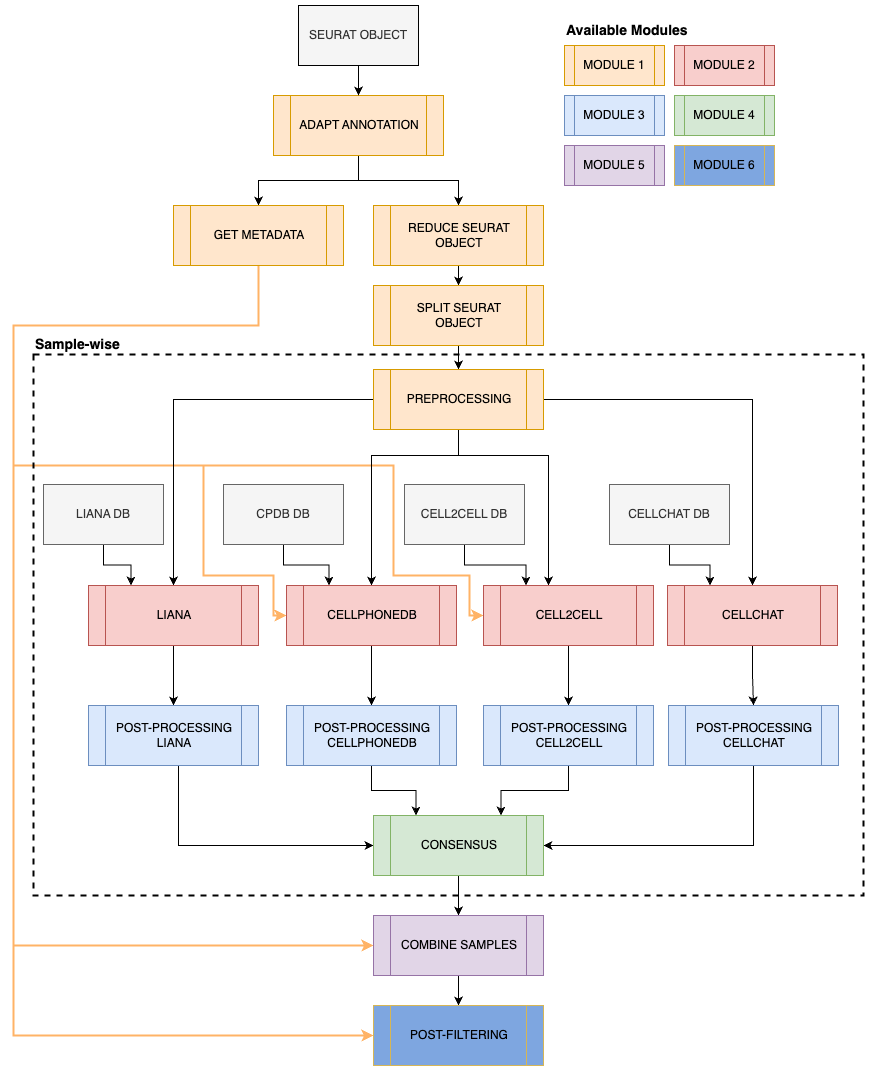
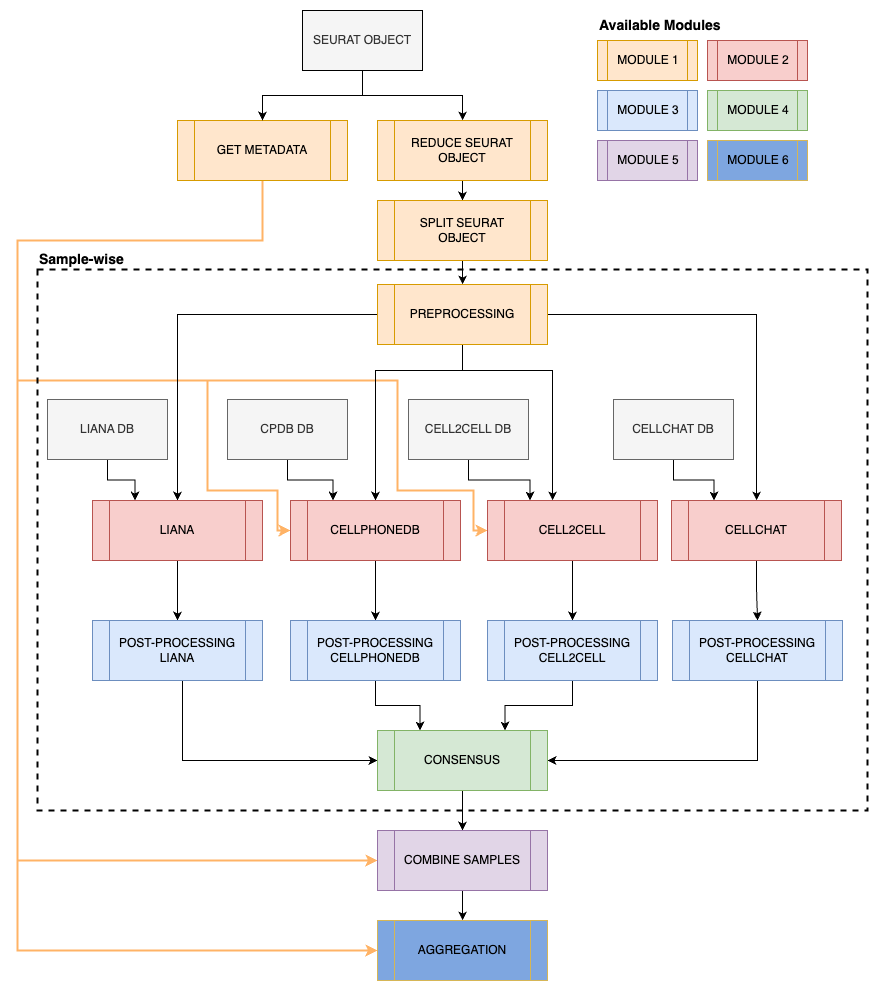
update readme + setup repo for run

diff --git a/README.md b/README.md
@@ -2,54 +2,21 @@
 
 Modular pipeline for inferring cell-cell interactions (CCIs) from scRNAseq data using multiple publicly available tools. The following tools are currently implemented: 
 
-- LIANA (0.1.12)
-- CellPhoneDB v5 (5.0.0)
-- Cell2cell (0.7.3)
-- CellChat v2 (2.1.1)
+* LIANA (0.1.12)
+* CellPhoneDB v5 (5.0.0)
+* Cell2cell (0.7.3)
+* CellChat v2 (2.1.1)
 
 ## Quick start
 
 1. Fork this repo (then clone)
 2. Installing [Nextflow](https://github.com/nextflow-io/nextflow/releases/download/v23.04.3/nextflow-23.04.3-all), used version for testing: 23.04.3
-3. Setup required conda environments with `setup_env.sh`
+3. Setup required conda environments with `cd env && setup_env.sh`
 4. Use `nf_template.sh` to run the pipeline.
 
 ## Workflow Schematic
 
 ![workflow](src/cci_workflow.png)
-
-## Prerequisites
-
-Two separate conda environments are used to infer the CCIs with Cell2Cell and CellPhoneDB v5.
-
-```sh
-# Cell2cell - Python/202_cci_cell2cell.py
-mamba env create --name cell2cell --file env/cell2cell.yml
-
-# CellPhoneDB - Python/203_cci_cpdb.py
-mamba env create --name cpdb --file env/cpdb.yml
-```
-
-All other scripts can be used with the following environment:
-
-```sh
-mamba env create --name cci --file env/cci.yml
-```
-
-After creating this environment, please install the following R packages manually using `devtools` (or your preferred package installer, e.g. `pak` or `pacman`):
-```R
-# Visualization
-devtools::install_github("jmw86069/colorjam")
-
-# CellChat (order is important, presto necessary because of bug w/ CellChat installation)
-devtools::install_github("immunogenomics/presto")
-devtools::install_github("jinworks/CellChat")
-
-# LIANA
-devtools::install_github("saezlab/liana")
-```
-
-Alternatively, use the `setup_env.sh` to setup all required environments with a single bash script.
 
 ## Running the Nextflow pipeline
 
@@ -72,9 +39,9 @@ nextflow run ${project_dir} -with-report -with-trace \
 
 A more elaborate command can be found in [nf_template.sh](nf_template.sh).
 
-Nextflow configuration files can be found in folder [nf-config](nf_config), with two symlinks: `metrics_and_report.config` and `process_resources.config`, these point to two files on H4H. These files do not have to be changed.
+Nextflow configuration files can be found in folder [nf-config](nf_config), with two symlinks: `metrics_and_report.config` and `process_resources.config` , these point to two files on H4H. These files do not have to be changed.
 
-> The Nextflow pipeline uses the three conda environments, and uses as path `$HOME/miniforge3/envs/{env_name}`. These are specified in [configuration_profiles](nf-config/configuration_profiles) and [process_info](nf-config/process_info). In the latter, the two environments `cpdb` and `cell2cell` are used for the processes: `INFER_CPDB` and `INFER_CELL2CELL`, respectively. If necessary, feel free to change.
+> The Nextflow pipeline uses the three conda environments, and uses as path `$HOME/miniforge3/envs/{env_name}` . These are specified in [configuration_profiles](nf-config/configuration_profiles) and [process_info](nf-config/process_info). In the latter, the two environments `cpdb` and `cell2cell` are used for the processes: `INFER_CPDB` and `INFER_CELL2CELL` , respectively. If necessary, feel free to change.
 
 ## INPUTS
 
@@ -82,29 +49,33 @@ Nextflow configuration files can be found in folder [nf-config](nf_config), with
 
 One of the following arguments has to be supplied to run the pipeline.
 
-- `input_file`, if supplied, you can start with Module 1.
-- `sample_dir`, if supplied, you can start with Module 1 or 2. For the latter, it is expected that this folder has two subfolders ('mtx' and 'seurat'). See below for further details.
+* `input_file`, if supplied, you can start with Module 1.
+* `sample_dir`, if supplied, you can start with Module 1 or 2. For the latter, it is expected that this folder has two subfolders ('mtx' and 'seurat'). See below for further details.
 
 Other optional arguments are:
 
-- `split_varname`: variable name to be used to split the Seurat object, e.g. variable name for the samples (Module 1: SPLIT_SEURAT_OBJECT). By default: Sample
-- `annot`: column in Seurat object to be used as cell type labels.
-- `min_cells`: min. number of cells required for a cell type to be kept in a sample (Module 1: PREPROCESSING). By default 100.
-- `min_cell_types`: min. number of cell types in a sample, for a sample to be used for inferring CCIs. At least two cell types are required to infer interactions (Module 1: PREPROCESSING). By default 2. 
-- `min_pct`: min. pct of cells expressing a gene for (Module 2: CELLPHONEDB), by default 0.1 (10%)
-- `alpha`: significance threshold for consensus (Module 4), by default 0.05
-- `n_perm`: number of permutations (Module 2), by default 1000.
-- `min_frac_samples`: detected in at least M% of the samples (Module 6), by default 0.5
+* `split_varname`: variable name to be used to split the Seurat object, e.g. variable name for the samples (Module 1: SPLIT_SEURAT_OBJECT). By default:     Sample
+* `annot`: column in Seurat object to be used as cell type labels.
+* `min_cells`: min. number of cells required for a cell type to be kept in a sample (Module 1: PREPROCESSING). By default 100.
+* `min_cell_types`: min. number of cell types in a sample, for a sample to be used for inferring CCIs. At least two cell types are required to infer interactions (Module 1: PREPROCESSING). By default 2.
+* `min_pct`: min. pct of cells expressing a gene for (Module 2: CELLPHONEDB), by default 0.1 (10%)
+* `alpha`: significance threshold for consensus (Module 4), by default 0.05
+* `n_perm`: number of permutations (Module 2), by default 1000.
+* `min_frac_samples`: detected in at least M% of the samples (Module 6), by default 0.5
+* `condition_varname`: name for grouping, e.g. patient if you have multiple samples for each patient, used for aggregation (Module 6).
+* `min_patients`: number of patients that need to have the detected interaction in order to be kept (Module 6).
+* `aggregate_samples`: keep interactions based on aggregation by samples, i.e. detected in min. X% of samples, by default 'true' (remove `--aggregate_samples` for it to be false).
+* `aggregate_condition`: keep interactions based on aggregation by condition, e.g. detected in at least X samples with a condition, by default 'false' (provide `--aggregate_condition` for it to be true).
 
 ### Interactions Database
 
-To infer CCIs, a database with interactions is required. The multiple tools require differently formatted databases, therefore a custom database has been generated. The main database has already been formatted accordingly so that it can be used for the different tools. The files can be found in [data/interactions_db_v2](data/interactions_db_v2). The database contains close to 7K interactions. 
+To infer CCIs, a database with interactions is required. The multiple tools require differently formatted databases, therefore a custom database has been generated. The main database has already been formatted accordingly so that it can be used for the different tools. The files can be found in [data/interactions_db_v2](data/interactions_db_v2). The database contains close to 7K interactions.
 
 The database is constructed using the following existing databases:
 
-- LIANA: Consensus + Ramilowski 2015
-- CellPhoneDB v5
-- CellChat v2
+* LIANA: Consensus + Ramilowski 2015
+* CellPhoneDB v5
+* CellChat v2
 
 The final database files are generated using a number of scripts (R scripts starting with 010 to 017 and the Python file starting with 017), which are included in the repo.
 
@@ -114,26 +85,27 @@ Alternatively, you can create your own database, with the aforementioned files. 
 
 ### Workflow options
 
-The pipeline is set up to be as modular as possible. Generally, this modularity can be controlled with the parameter `approach`, which can be a value between **1-6**. They do the following:
+The pipeline is set up to be as modular as possible. Generally, this modularity can be controlled with the parameter `approach` , which can be a value between **1-6**. They do the following:
 
 1. Pre-processing (Module 1)
 2. Inferring interactions (Module 2)
 3. Post-processing (Module 3)
 4. Consensus (Module 4)
 5. Combining samples (Module 5)
-6. Post-filtering (Module 6)
+6. Aggregation (Module 6)
+   1. by `Sample` , only keep interactions that are found in at least X% of all samples.
+   2. by `condition_varname` , only keep interactions that are found in at least X number of samples with a condition condition, e.g. detected in at least X patients.
 
-> **NOTE: currently all steps before the value of approach are executed, e.g if `approach` = 3, then Modules 1-3 are executed, unless one of the skip and do arguments are set, which are described below.**.
+> **NOTE: currently all steps before the value of approach are executed, e.g if `approach` = 5, then Modules 1-5 are executed, unless one of the skip and do arguments are set, which are described below.**.
 
 > As this pipeline is initially setup for the GBM project, not all steps can be used for other cases. Therefore, the setting `approach` can be only a value between 1 and 5, **default = 5**.  
 
 In addition, there are processes within these main modules that can be executed or skipped, namely:
 
-- `do_annot`: skip (re)annotation of the Seurat object.
-- `skip_reduction`: skip reducing the Seurat object size.
-- `skip_preprocessing`: skip pre-processing of the individual sample Seurat objects. If you skip the pre-processing, you have to give the argument `sample_dir` which should contain two folders: 'seurat' and 'mtx'. The seurat folder should contain Rds files, one for each sample. The mtx folder should contain subfolders for each sample, where each subfolder should contain the following files: 'barcodes.tsv', 'genes.tsv' and 'matrix.mtx'.
+* `skip_reduction`: skip reducing the Seurat object size.
+* `skip_preprocessing`: skip pre-processing of the individual sample Seurat objects. If you skip the pre-processing, you have to give the argument `sample_dir` which should contain two folders: 'seurat' and 'mtx'. The seurat folder should contain Rds files, one for each sample. The mtx folder should contain subfolders for each sample, where each subfolder should contain the following files: 'barcodes.tsv', 'genes.tsv' and 'matrix.mtx'.
 
-These three options are **by default `false`** If you want to skip (one of) these steps, then add the argument to the bash command, e.g. add `-do_annot`.
+These three options are **by default `false` ** If you want to skip (one of) these steps, then add the argument to the bash command, e.g. add `-skip_preprocessing` .
 
 ## Running individual scripts
 
@@ -142,9 +114,9 @@ All scripts can be run individually, you can run in through the command line, so
 ### Python scripts
 
 There are three Python scripts available in the [Python](Python) folder:
-- [Python/017_update_cellphonedby.py](Python/017_update_cellphonedby.py)
-- [Python/203_cci_cpdb.py](Python/203_cci_cpdb.py)
-- [Python/202_cci_cell2cell.py](Python/202_cci_cell2cell.py)
+* [Python/017_update_cellphonedby.py](Python/017_update_cellphonedby.py)
+* [Python/203_cci_cpdb.py](Python/203_cci_cpdb.py)
+* [Python/202_cci_cell2cell.py](Python/202_cci_cell2cell.py)
 
 > Note: Make sure to run the CellPhoneDB related scripts (the first two) in the **cpdb** conda environment, while the latter can has to be run in the **cell2cell** environment.
 
@@ -195,8 +167,8 @@ if (!interactive()) {
 
 | Tool | Reference |
 |---|---|
-| [LIANA](https://github.com/saezlab/liana/) | Dimitrov, D., Türei, D., Garrido-Rodriguez M., Burmedi P.L., Nagai, J.S., Boys, C., Flores, R.O.R., Kim, H., Szalai, B., Costa, I.G., Valdeolivas, A., Dugourd, A. and Saez-Rodriguez, J. Comparison of methods and resources for cell-cell communication inference from single-cell RNA-Seq data. Nat Commun 13, 3224 (2022). [https://doi.org/10.1038/s41467-022-30755-0](https://doi.org/10.1038/s41467-022-30755-0)|
-| [CellPhoneDB v5](https://github.com/ventolab/CellphoneDB) | Garcia-Alonso, L., Lorenzi, V., Mazzeo, C.I. et al. Single-cell roadmap of human gonadal development. Nature 607, 540–547 (2022). [https://doi.org/10.1038/s41586-022-04918-4](https://doi.org/10.1038/s41586-022-04918-4) |
+| [LIANA](https://github.com/saezlab/liana/) | Dimitrov, D., Türei, D., Garrido-Rodriguez M., Burmedi P. L., Nagai, J. S., Boys, C., Flores, R. O. R., Kim, H., Szalai, B., Costa, I. G., Valdeolivas, A., Dugourd, A. and Saez-Rodriguez, J. Comparison of methods and resources for cell-cell communication inference from single-cell RNA-Seq data. Nat Commun 13, 3224 (2022). [https://doi.org/10.1038/s41467-022-30755-0](https://doi.org/10.1038/s41467-022-30755-0)|
+| [CellPhoneDB v5](https://github.com/ventolab/CellphoneDB) | Garcia-Alonso, L., Lorenzi, V., Mazzeo, C. I. et al. Single-cell roadmap of human gonadal development. Nature 607, 540–547 (2022). [https://doi.org/10.1038/s41586-022-04918-4](https://doi.org/10.1038/s41586-022-04918-4) |
 | [cell2cell](https://github.com/earmingol/cell2cell) | Armingol E, Ghaddar A, Joshi CJ, Baghdassarian H, Shamie I, et al. (2022) Inferring a spatial code of cell-cell interactions across a whole animal body. PLOS Computational Biology 18(11): e1010715. [https://doi.org/10.1371/journal.pcbi.1010715](https://doi.org/10.1371/journal.pcbi.1010715) |
 | [CellChat v2](https://github.com/jinworks/CellChat) | Jin, S., Plikus, M. V., & Nie, Q. (2023). CellChat for systematic analysis of cell-cell communication from single-cell and spatially resolved transcriptomics (p. 2023.11.05.565674). bioRxiv. [https://doi.org/10.1101/2023.11.05.565674](https://doi.org/10.1101/2023.11.05.565674) |
 
